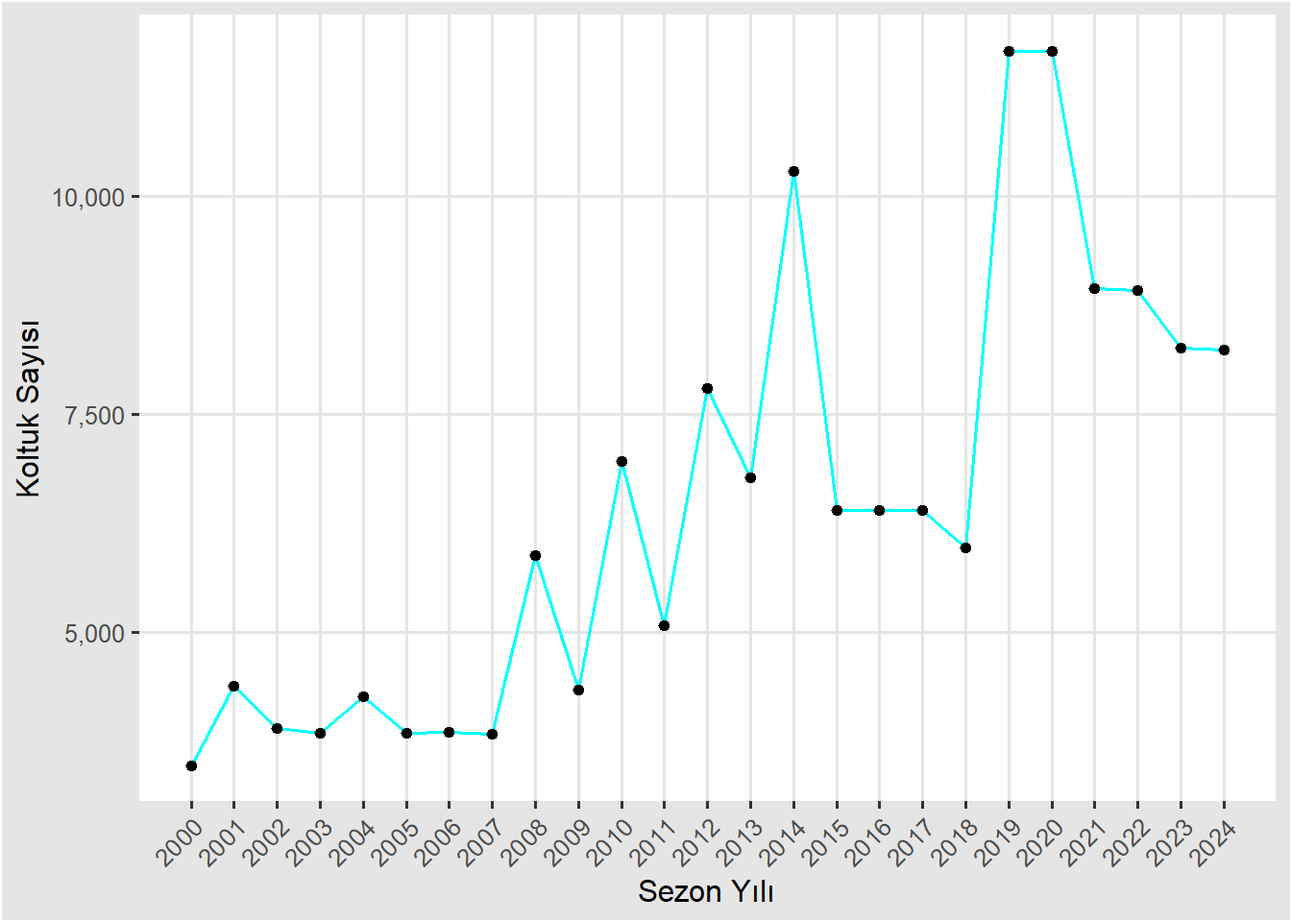
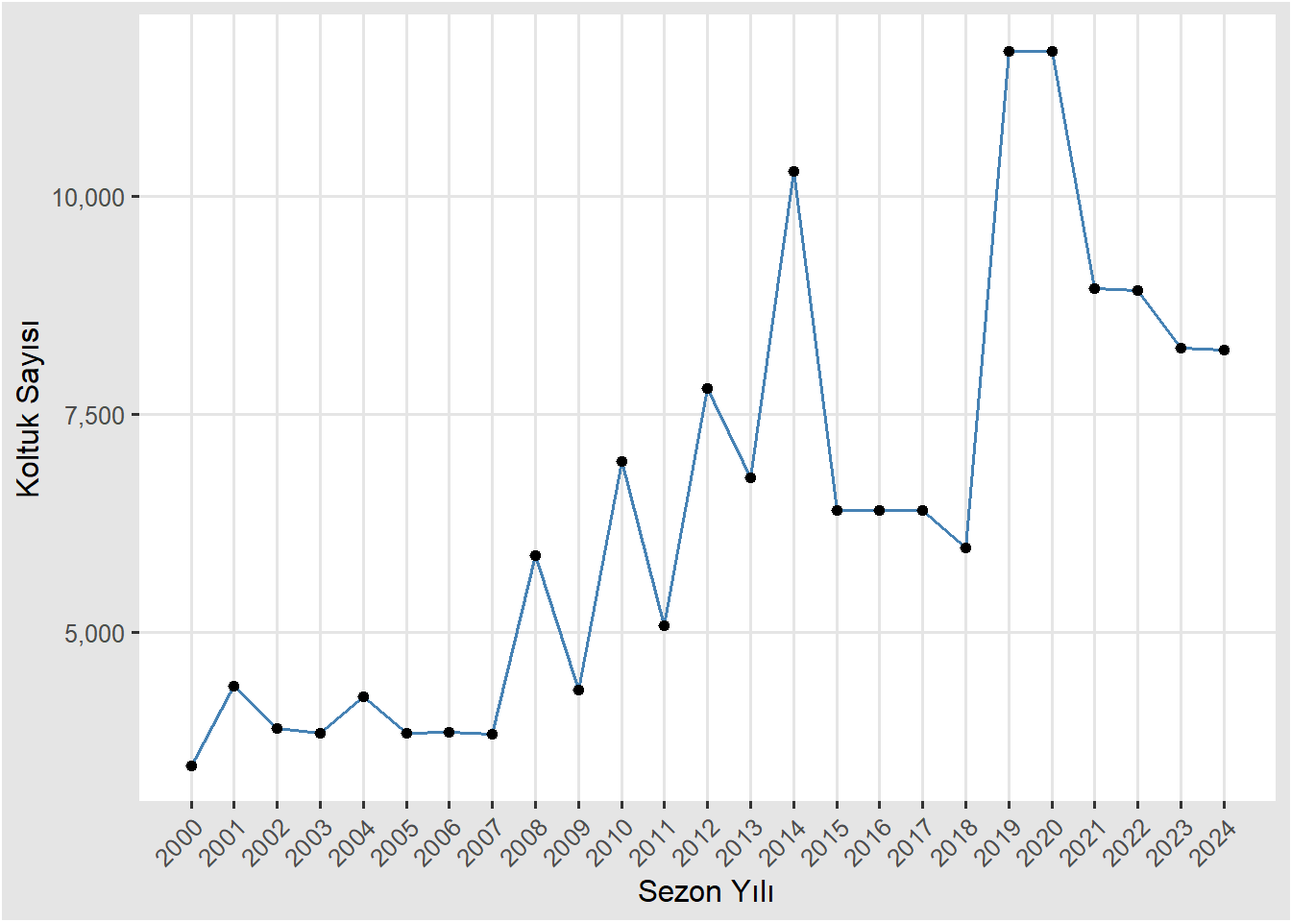
aaa

diff --git a/docs/proje.html b/docs/proje.html
@@ -338,22 +338,22 @@ pre > code.sourceCode > span > a:first-child::before { text-decoration: underlin
     <h2 id="toc-title">On this page</h2>
    
   <ul>
-  <li><a href="#proje-genel-bakış-ve-kapsamı" id="toc-proje-genel-bakış-ve-kapsamı" class="nav-link active" data-scroll-target="#proje-genel-bakış-ve-kapsamı">Proje Genel Bakış ve Kapsamı</a></li>
-  <li><a href="#veri" id="toc-veri" class="nav-link" data-scroll-target="#veri">Veri</a>
+  <li><a href="#proje-genel-bakış-ve-kapsamı" id="toc-proje-genel-bakış-ve-kapsamı" class="nav-link active" data-scroll-target="#proje-genel-bakış-ve-kapsamı"><span class="header-section-number">1</span> Proje Genel Bakış ve Kapsamı</a></li>
+  <li><a href="#veri" id="toc-veri" class="nav-link" data-scroll-target="#veri"><span class="header-section-number">2</span> Veri</a>
   <ul class="collapse">
-  <li><a href="#veri-kaynağı" id="toc-veri-kaynağı" class="nav-link" data-scroll-target="#veri-kaynağı">Veri Kaynağı</a></li>
-  <li><a href="#veri-hakkında-genel-bilgiler" id="toc-veri-hakkında-genel-bilgiler" class="nav-link" data-scroll-target="#veri-hakkında-genel-bilgiler">Veri Hakkında Genel Bilgiler</a></li>
-  <li><a href="#tercih-sebebi" id="toc-tercih-sebebi" class="nav-link" data-scroll-target="#tercih-sebebi">Tercih Sebebi</a></li>
-  <li><a href="#ön-işleme" id="toc-ön-işleme" class="nav-link" data-scroll-target="#ön-işleme">Ön İşleme</a></li>
+  <li><a href="#veri-kaynağı" id="toc-veri-kaynağı" class="nav-link" data-scroll-target="#veri-kaynağı"><span class="header-section-number">2.1</span> Veri Kaynağı</a></li>
+  <li><a href="#veri-hakkında-genel-bilgiler" id="toc-veri-hakkında-genel-bilgiler" class="nav-link" data-scroll-target="#veri-hakkında-genel-bilgiler"><span class="header-section-number">2.2</span> Veri Hakkında Genel Bilgiler</a></li>
+  <li><a href="#tercih-sebebi" id="toc-tercih-sebebi" class="nav-link" data-scroll-target="#tercih-sebebi"><span class="header-section-number">2.3</span> Tercih Sebebi</a></li>
+  <li><a href="#ön-işleme" id="toc-ön-işleme" class="nav-link" data-scroll-target="#ön-işleme"><span class="header-section-number">2.4</span> Ön İşleme</a></li>
   </ul></li>
-  <li><a href="#analiz" id="toc-analiz" class="nav-link" data-scroll-target="#analiz">Analiz</a>
+  <li><a href="#analiz" id="toc-analiz" class="nav-link" data-scroll-target="#analiz"><span class="header-section-number">3</span> Analiz</a>
   <ul class="collapse">
-  <li><a href="#keşifsel-veri-analizi" id="toc-keşifsel-veri-analizi" class="nav-link" data-scroll-target="#keşifsel-veri-analizi">Keşifsel Veri Analizi</a></li>
-  <li><a href="#trend-analizi" id="toc-trend-analizi" class="nav-link" data-scroll-target="#trend-analizi">Trend Analizi</a></li>
-  <li><a href="#model-uydurma" id="toc-model-uydurma" class="nav-link" data-scroll-target="#model-uydurma">Model Uydurma</a></li>
-  <li><a href="#sonuçlar" id="toc-sonuçlar" class="nav-link" data-scroll-target="#sonuçlar">Sonuçlar</a></li>
+  <li><a href="#keşifsel-veri-analizi" id="toc-keşifsel-veri-analizi" class="nav-link" data-scroll-target="#keşifsel-veri-analizi"><span class="header-section-number">3.1</span> Keşifsel Veri Analizi</a></li>
+  <li><a href="#trend-analizi" id="toc-trend-analizi" class="nav-link" data-scroll-target="#trend-analizi"><span class="header-section-number">3.2</span> Trend Analizi</a></li>
+  <li><a href="#model-uydurma" id="toc-model-uydurma" class="nav-link" data-scroll-target="#model-uydurma"><span class="header-section-number">3.3</span> Model Uydurma</a></li>
+  <li><a href="#sonuçlar" id="toc-sonuçlar" class="nav-link" data-scroll-target="#sonuçlar"><span class="header-section-number">3.4</span> Sonuçlar</a></li>
   </ul></li>
-  <li><a href="#sonuçlar-ve-ana-çıkarımlar" id="toc-sonuçlar-ve-ana-çıkarımlar" class="nav-link" data-scroll-target="#sonuçlar-ve-ana-çıkarımlar">Sonuçlar ve Ana Çıkarımlar</a></li>
+  <li><a href="#sonuçlar-ve-ana-çıkarımlar" id="toc-sonuçlar-ve-ana-çıkarımlar" class="nav-link" data-scroll-target="#sonuçlar-ve-ana-çıkarımlar"><span class="header-section-number">4</span> Sonuçlar ve Ana Çıkarımlar</a></li>
   </ul>
 </nav>
 </nav>
@@ -386,19 +386,19 @@ pre > code.sourceCode > span > a:first-child::before { text-decoration: underlin
 
 <p><strong>Projemizle ilgili güncellemelerden haberdar olmak için bu xxxxx bağlantısındaki proje sayfamızı takip edin.</strong></p>
 <p>(Aşağıdaki başlıklar örnek olarak verilmiştir; lütfen gerektiği şekilde düzenlemekten çekinmeyin.)</p>
-<section id="proje-genel-bakış-ve-kapsamı" class="level1">
-<h1>Proje Genel Bakış ve Kapsamı</h1>
+<section id="proje-genel-bakış-ve-kapsamı" class="level1" data-number="1">
+<h1 data-number="1"><span class="header-section-number">1</span> Proje Genel Bakış ve Kapsamı</h1>
 <p>xxxxxx</p>
 </section>
-<section id="veri" class="level1">
-<h1>Veri</h1>
+<section id="veri" class="level1" data-number="2">
+<h1 data-number="2"><span class="header-section-number">2</span> Veri</h1>
 <p>xxxxxx</p>
-<section id="veri-kaynağı" class="level2">
-<h2 class="anchored" data-anchor-id="veri-kaynağı">Veri Kaynağı</h2>
+<section id="veri-kaynağı" class="level2" data-number="2.1">
+<h2 data-number="2.1" class="anchored" data-anchor-id="veri-kaynağı"><span class="header-section-number">2.1</span> Veri Kaynağı</h2>
 <p>xxxxxx</p>
 </section>
-<section id="veri-hakkında-genel-bilgiler" class="level2">
-<h2 class="anchored" data-anchor-id="veri-hakkında-genel-bilgiler">Veri Hakkında Genel Bilgiler</h2>
+<section id="veri-hakkında-genel-bilgiler" class="level2" data-number="2.2">
+<h2 data-number="2.2" class="anchored" data-anchor-id="veri-hakkında-genel-bilgiler"><span class="header-section-number">2.2</span> Veri Hakkında Genel Bilgiler</h2>
 <p>xxxxxx</p>
 <div class="cell">
 <div class="code-copy-outer-scaffold"><div class="sourceCode cell-code" id="cb1"><pre class="sourceCode r code-with-copy"><code class="sourceCode r"><span id="cb1-1"><a href="#cb1-1" aria-hidden="true" tabindex="-1"></a><span class="co">#install.packages("tidyverse", repos = "https://cran.rstudio.com/")</span></span>
@@ -510,10 +510,9 @@ The following object is masked from 'package:readr':
 <span id="cb26-5"><a href="#cb26-5" aria-hidden="true" tabindex="-1"></a>     <span class="fu">geom_point</span>(<span class="at">color =</span> <span class="st">"black"</span>) <span class="sc">+</span></span>
 <span id="cb26-6"><a href="#cb26-6" aria-hidden="true" tabindex="-1"></a>     <span class="fu">xlab</span>(<span class="st">"Sezon Yılı"</span>) <span class="sc">+</span> </span>
 <span id="cb26-7"><a href="#cb26-7" aria-hidden="true" tabindex="-1"></a>     <span class="fu">ylab</span>(<span class="st">"Seyirci Sayısı (Bin)"</span>) <span class="sc">+</span> </span>
-<span id="cb26-8"><a href="#cb26-8" aria-hidden="true" tabindex="-1"></a>     <span class="fu">scale_x_continuous</span>(<span class="at">breaks =</span> <span class="fu">seq</span>(<span class="fu">min</span>(operabale<span class="sc">$</span>sezon_yili),</span>
-<span id="cb26-9"><a href="#cb26-9" aria-hidden="true" tabindex="-1"></a>                                 <span class="fu">max</span>(operabale<span class="sc">$</span>sezon_yili), <span class="at">by =</span> <span class="dv">1</span>)) <span class="sc">+</span></span>
-<span id="cb26-10"><a href="#cb26-10" aria-hidden="true" tabindex="-1"></a>     <span class="fu">theme_igray</span>() <span class="sc">+</span></span>
-<span id="cb26-11"><a href="#cb26-11" aria-hidden="true" tabindex="-1"></a>     <span class="fu">theme</span>(<span class="at">axis.text.x =</span> <span class="fu">element_text</span>(<span class="at">angle =</span> <span class="dv">45</span>, <span class="at">hjust =</span> <span class="dv">1</span>))</span></code></pre></div><button title="Copy to Clipboard" class="code-copy-button"><i class="bi"></i></button></div>
+<span id="cb26-8"><a href="#cb26-8" aria-hidden="true" tabindex="-1"></a>     <span class="fu">scale_x_continuous</span>(<span class="at">breaks =</span> <span class="fu">seq</span>(<span class="dv">2000</span>, <span class="dv">2024</span>, <span class="at">by =</span> <span class="dv">1</span>)) <span class="sc">+</span></span>
+<span id="cb26-9"><a href="#cb26-9" aria-hidden="true" tabindex="-1"></a>     <span class="fu">theme_igray</span>() <span class="sc">+</span></span>
+<span id="cb26-10"><a href="#cb26-10" aria-hidden="true" tabindex="-1"></a>     <span class="fu">theme</span>(<span class="at">axis.text.x =</span> <span class="fu">element_text</span>(<span class="at">angle =</span> <span class="dv">45</span>, <span class="at">hjust =</span> <span class="dv">1</span>))</span></code></pre></div><button title="Copy to Clipboard" class="code-copy-button"><i class="bi"></i></button></div>
 <div class="cell-output-display">
 <div>
 <figure class="figure">
@@ -528,10 +527,9 @@ The following object is masked from 'package:readr':
 <span id="cb27-5"><a href="#cb27-5" aria-hidden="true" tabindex="-1"></a>     <span class="fu">geom_point</span>(<span class="at">color =</span> <span class="st">"black"</span>) <span class="sc">+</span></span>
 <span id="cb27-6"><a href="#cb27-6" aria-hidden="true" tabindex="-1"></a>     <span class="fu">xlab</span>(<span class="st">"Sezon Yılı"</span>) <span class="sc">+</span> </span>
 <span id="cb27-7"><a href="#cb27-7" aria-hidden="true" tabindex="-1"></a>     <span class="fu">ylab</span>(<span class="st">"Oynanan Eser Sayısı"</span>) <span class="sc">+</span> </span>
-<span id="cb27-8"><a href="#cb27-8" aria-hidden="true" tabindex="-1"></a>     <span class="fu">scale_x_continuous</span>(<span class="at">breaks =</span> <span class="fu">seq</span>(<span class="fu">min</span>(operabale<span class="sc">$</span>sezon_yili),</span>
-<span id="cb27-9"><a href="#cb27-9" aria-hidden="true" tabindex="-1"></a>                                 <span class="fu">max</span>(operabale<span class="sc">$</span>sezon_yili), <span class="at">by =</span> <span class="dv">1</span>)) <span class="sc">+</span></span>
-<span id="cb27-10"><a href="#cb27-10" aria-hidden="true" tabindex="-1"></a>     <span class="fu">theme_igray</span>() <span class="sc">+</span></span>
-<span id="cb27-11"><a href="#cb27-11" aria-hidden="true" tabindex="-1"></a>     <span class="fu">theme</span>(<span class="at">axis.text.x =</span> <span class="fu">element_text</span>(<span class="at">angle =</span> <span class="dv">45</span>, <span class="at">hjust =</span> <span class="dv">1</span>))</span></code></pre></div><button title="Copy to Clipboard" class="code-copy-button"><i class="bi"></i></button></div>
+<span id="cb27-8"><a href="#cb27-8" aria-hidden="true" tabindex="-1"></a>     <span class="fu">scale_x_continuous</span>(<span class="at">breaks =</span> <span class="fu">seq</span>(<span class="dv">2000</span>, <span class="dv">2024</span>, <span class="at">by =</span> <span class="dv">1</span>)) <span class="sc">+</span></span>
+<span id="cb27-9"><a href="#cb27-9" aria-hidden="true" tabindex="-1"></a>     <span class="fu">theme_igray</span>() <span class="sc">+</span></span>
+<span id="cb27-10"><a href="#cb27-10" aria-hidden="true" tabindex="-1"></a>     <span class="fu">theme</span>(<span class="at">axis.text.x =</span> <span class="fu">element_text</span>(<span class="at">angle =</span> <span class="dv">45</span>, <span class="at">hjust =</span> <span class="dv">1</span>))</span></code></pre></div><button title="Copy to Clipboard" class="code-copy-button"><i class="bi"></i></button></div>
 <div class="cell-output-display">
 <div>
 <figure class="figure">
@@ -542,15 +540,14 @@ The following object is masked from 'package:readr':
 <div class="code-copy-outer-scaffold"><div class="sourceCode cell-code" id="cb28"><pre class="sourceCode r code-with-copy"><code class="sourceCode r"><span id="cb28-1"><a href="#cb28-1" aria-hidden="true" tabindex="-1"></a><span class="co">#yıllara göre koltuk sayısı değişimi</span></span>
 <span id="cb28-2"><a href="#cb28-2" aria-hidden="true" tabindex="-1"></a>ob3 <span class="ot">&lt;-</span> operabale <span class="sc">|&gt;</span> <span class="fu">ggplot</span>(<span class="fu">aes</span>(<span class="at">x =</span> sezon_yili, <span class="at">y =</span> koltuk_sayisi))</span>
 <span id="cb28-3"><a href="#cb28-3" aria-hidden="true" tabindex="-1"></a></span>
-<span id="cb28-4"><a href="#cb28-4" aria-hidden="true" tabindex="-1"></a>ob3 <span class="sc">+</span> <span class="fu">geom_line</span>(<span class="at">color =</span> <span class="st">"cyan"</span>) <span class="sc">+</span> </span>
+<span id="cb28-4"><a href="#cb28-4" aria-hidden="true" tabindex="-1"></a>ob3 <span class="sc">+</span> <span class="fu">geom_line</span>(<span class="at">color =</span> <span class="st">"steelblue"</span>) <span class="sc">+</span> </span>
 <span id="cb28-5"><a href="#cb28-5" aria-hidden="true" tabindex="-1"></a>     <span class="fu">geom_point</span>(<span class="at">color =</span> <span class="st">"black"</span>) <span class="sc">+</span></span>
 <span id="cb28-6"><a href="#cb28-6" aria-hidden="true" tabindex="-1"></a>     <span class="fu">xlab</span>(<span class="st">"Sezon Yılı"</span>) <span class="sc">+</span> </span>
 <span id="cb28-7"><a href="#cb28-7" aria-hidden="true" tabindex="-1"></a>     <span class="fu">ylab</span>(<span class="st">"Koltuk Sayısı"</span>) <span class="sc">+</span> </span>
 <span id="cb28-8"><a href="#cb28-8" aria-hidden="true" tabindex="-1"></a>     <span class="fu">scale_y_continuous</span>(<span class="at">labels =</span> comma) <span class="sc">+</span> </span>
-<span id="cb28-9"><a href="#cb28-9" aria-hidden="true" tabindex="-1"></a>     <span class="fu">scale_x_continuous</span>(<span class="at">breaks =</span> <span class="fu">seq</span>(<span class="fu">min</span>(operabale<span class="sc">$</span>sezon_yili),</span>
-<span id="cb28-10"><a href="#cb28-10" aria-hidden="true" tabindex="-1"></a>                                 <span class="fu">max</span>(operabale<span class="sc">$</span>sezon_yili), <span class="at">by =</span> <span class="dv">1</span>)) <span class="sc">+</span></span>
-<span id="cb28-11"><a href="#cb28-11" aria-hidden="true" tabindex="-1"></a>     <span class="fu">theme_igray</span>() <span class="sc">+</span></span>
-<span id="cb28-12"><a href="#cb28-12" aria-hidden="true" tabindex="-1"></a>     <span class="fu">theme</span>(<span class="at">axis.text.x =</span> <span class="fu">element_text</span>(<span class="at">angle =</span> <span class="dv">45</span>, <span class="at">hjust =</span> <span class="dv">1</span>))</span></code></pre></div><button title="Copy to Clipboard" class="code-copy-button"><i class="bi"></i></button></div>
+<span id="cb28-9"><a href="#cb28-9" aria-hidden="true" tabindex="-1"></a>     <span class="fu">scale_x_continuous</span>(<span class="at">breaks =</span> <span class="fu">seq</span>(<span class="dv">2000</span>, <span class="dv">2024</span>, <span class="at">by =</span> <span class="dv">1</span>)) <span class="sc">+</span></span>
+<span id="cb28-10"><a href="#cb28-10" aria-hidden="true" tabindex="-1"></a>     <span class="fu">theme_igray</span>() <span class="sc">+</span></span>
+<span id="cb28-11"><a href="#cb28-11" aria-hidden="true" tabindex="-1"></a>     <span class="fu">theme</span>(<span class="at">axis.text.x =</span> <span class="fu">element_text</span>(<span class="at">angle =</span> <span class="dv">45</span>, <span class="at">hjust =</span> <span class="dv">1</span>))</span></code></pre></div><button title="Copy to Clipboard" class="code-copy-button"><i class="bi"></i></button></div>
 <div class="cell-output-display">
 <div>
 <figure class="figure">
@@ -576,21 +573,18 @@ The following object is masked from 'package:readr':
 <span id="cb29-16"><a href="#cb29-16" aria-hidden="true" tabindex="-1"></a>  </span>
 <span id="cb29-17"><a href="#cb29-17" aria-hidden="true" tabindex="-1"></a>)</span>
 <span id="cb29-18"><a href="#cb29-18" aria-hidden="true" tabindex="-1"></a></span>
-<span id="cb29-19"><a href="#cb29-19" aria-hidden="true" tabindex="-1"></a><span class="fu">ggplot</span>(uzun, <span class="fu">aes</span>(<span class="at">x =</span> sezon_yili, <span class="at">y =</span> deger)) <span class="sc">+</span></span>
-<span id="cb29-20"><a href="#cb29-20" aria-hidden="true" tabindex="-1"></a>  <span class="fu">geom_line</span>(<span class="at">color =</span> <span class="st">"maroon"</span>) <span class="sc">+</span></span>
-<span id="cb29-21"><a href="#cb29-21" aria-hidden="true" tabindex="-1"></a>  <span class="fu">geom_point</span>(<span class="at">size =</span> <span class="dv">1</span>) <span class="sc">+</span></span>
-<span id="cb29-22"><a href="#cb29-22" aria-hidden="true" tabindex="-1"></a>  <span class="fu">facet_grid</span>(</span>
-<span id="cb29-23"><a href="#cb29-23" aria-hidden="true" tabindex="-1"></a>    degisken <span class="sc">~</span> .,</span>
-<span id="cb29-24"><a href="#cb29-24" aria-hidden="true" tabindex="-1"></a>    <span class="at">scales =</span> <span class="st">"free_y"</span></span>
-<span id="cb29-25"><a href="#cb29-25" aria-hidden="true" tabindex="-1"></a>  ) <span class="sc">+</span></span>
-<span id="cb29-26"><a href="#cb29-26" aria-hidden="true" tabindex="-1"></a>  <span class="fu">scale_x_continuous</span>(<span class="at">breaks =</span> <span class="fu">seq</span>(<span class="fu">min</span>(operabale<span class="sc">$</span>sezon_yili),</span>
-<span id="cb29-27"><a href="#cb29-27" aria-hidden="true" tabindex="-1"></a>                                 <span class="fu">max</span>(operabale<span class="sc">$</span>sezon_yili), <span class="at">by =</span> <span class="dv">1</span>))<span class="sc">+</span></span>
-<span id="cb29-28"><a href="#cb29-28" aria-hidden="true" tabindex="-1"></a>  <span class="fu">scale_y_continuous</span>(<span class="at">labels =</span> comma) <span class="sc">+</span></span>
-<span id="cb29-29"><a href="#cb29-29" aria-hidden="true" tabindex="-1"></a>  <span class="fu">theme_igray</span>() <span class="sc">+</span></span>
-<span id="cb29-30"><a href="#cb29-30" aria-hidden="true" tabindex="-1"></a>  <span class="fu">theme</span>(</span>
-<span id="cb29-31"><a href="#cb29-31" aria-hidden="true" tabindex="-1"></a>    <span class="at">strip.text.y =</span> <span class="fu">element_text</span>(<span class="at">size =</span> <span class="dv">11</span>, <span class="at">face =</span> <span class="st">"bold"</span>),</span>
-<span id="cb29-32"><a href="#cb29-32" aria-hidden="true" tabindex="-1"></a>    <span class="at">axis.text.x =</span> <span class="fu">element_text</span>(<span class="at">angle =</span> <span class="dv">45</span>, <span class="at">hjust =</span> <span class="dv">1</span>)) <span class="sc">+</span></span>
-<span id="cb29-33"><a href="#cb29-33" aria-hidden="true" tabindex="-1"></a>  <span class="fu">labs</span>(<span class="at">x =</span> <span class="st">"Sezon Yılı"</span>, <span class="at">y =</span> <span class="cn">NULL</span>)</span></code></pre></div><button title="Copy to Clipboard" class="code-copy-button"><i class="bi"></i></button></div>
+<span id="cb29-19"><a href="#cb29-19" aria-hidden="true" tabindex="-1"></a>ob4 <span class="ot">&lt;-</span> uzun <span class="sc">|&gt;</span> <span class="fu">ggplot</span>(<span class="fu">aes</span>(<span class="at">x =</span> sezon_yili, <span class="at">y =</span> deger)) </span>
+<span id="cb29-20"><a href="#cb29-20" aria-hidden="true" tabindex="-1"></a></span>
+<span id="cb29-21"><a href="#cb29-21" aria-hidden="true" tabindex="-1"></a>ob4 <span class="sc">+</span> <span class="fu">geom_line</span>(<span class="at">color =</span> <span class="st">"maroon"</span>) <span class="sc">+</span></span>
+<span id="cb29-22"><a href="#cb29-22" aria-hidden="true" tabindex="-1"></a>     <span class="fu">geom_point</span>(<span class="at">size =</span> <span class="dv">1</span>) <span class="sc">+</span></span>
+<span id="cb29-23"><a href="#cb29-23" aria-hidden="true" tabindex="-1"></a>     <span class="fu">facet_grid</span>(degisken <span class="sc">~</span> ., <span class="at">scales =</span> <span class="st">"free_y"</span>) <span class="sc">+</span></span>
+<span id="cb29-24"><a href="#cb29-24" aria-hidden="true" tabindex="-1"></a>     <span class="fu">scale_x_continuous</span>(<span class="at">breaks =</span> <span class="fu">seq</span>(<span class="dv">2000</span>, <span class="dv">2024</span>, <span class="at">by =</span> <span class="dv">1</span>))<span class="sc">+</span></span>
+<span id="cb29-25"><a href="#cb29-25" aria-hidden="true" tabindex="-1"></a>     <span class="fu">scale_y_continuous</span>(<span class="at">labels =</span> comma) <span class="sc">+</span></span>
+<span id="cb29-26"><a href="#cb29-26" aria-hidden="true" tabindex="-1"></a>     <span class="fu">theme_igray</span>() <span class="sc">+</span></span>
+<span id="cb29-27"><a href="#cb29-27" aria-hidden="true" tabindex="-1"></a>     <span class="fu">theme</span>(</span>
+<span id="cb29-28"><a href="#cb29-28" aria-hidden="true" tabindex="-1"></a>     <span class="at">strip.text.y =</span> <span class="fu">element_text</span>(<span class="at">size =</span> <span class="dv">11</span>, <span class="at">face =</span> <span class="st">"bold"</span>),</span>
+<span id="cb29-29"><a href="#cb29-29" aria-hidden="true" tabindex="-1"></a>     <span class="at">axis.text.x =</span> <span class="fu">element_text</span>(<span class="at">angle =</span> <span class="dv">45</span>, <span class="at">hjust =</span> <span class="dv">1</span>)) <span class="sc">+</span></span>
+<span id="cb29-30"><a href="#cb29-30" aria-hidden="true" tabindex="-1"></a>     <span class="fu">labs</span>(<span class="at">x =</span> <span class="st">"Sezon Yılı"</span>, <span class="at">y =</span> <span class="cn">NULL</span>)</span></code></pre></div><button title="Copy to Clipboard" class="code-copy-button"><i class="bi"></i></button></div>
 <div class="cell-output-display">
 <div>
 <figure class="figure">
@@ -609,16 +603,15 @@ The following object is masked from 'package:readr':
 [19]  49.079062  27.603581  21.938228   1.567996  23.667563  33.303390
 [25]  53.264167</code></pre>
 </div>
-<div class="code-copy-outer-scaffold"><div class="sourceCode cell-code" id="cb32"><pre class="sourceCode r code-with-copy"><code class="sourceCode r"><span id="cb32-1"><a href="#cb32-1" aria-hidden="true" tabindex="-1"></a>ob4 <span class="ot">&lt;-</span> operabale <span class="sc">|&gt;</span> <span class="fu">ggplot</span>(<span class="fu">aes</span>(<span class="at">x =</span> sezon_yili, <span class="at">y =</span> dolulukorani))</span>
+<div class="code-copy-outer-scaffold"><div class="sourceCode cell-code" id="cb32"><pre class="sourceCode r code-with-copy"><code class="sourceCode r"><span id="cb32-1"><a href="#cb32-1" aria-hidden="true" tabindex="-1"></a>ob5 <span class="ot">&lt;-</span> operabale <span class="sc">|&gt;</span> <span class="fu">ggplot</span>(<span class="fu">aes</span>(<span class="at">x =</span> sezon_yili, <span class="at">y =</span> dolulukorani))</span>
 <span id="cb32-2"><a href="#cb32-2" aria-hidden="true" tabindex="-1"></a></span>
-<span id="cb32-3"><a href="#cb32-3" aria-hidden="true" tabindex="-1"></a>ob4 <span class="sc">+</span> <span class="fu">geom_line</span>(<span class="at">color =</span> <span class="st">"maroon"</span>) <span class="sc">+</span> </span>
+<span id="cb32-3"><a href="#cb32-3" aria-hidden="true" tabindex="-1"></a>ob5 <span class="sc">+</span> <span class="fu">geom_line</span>(<span class="at">color =</span> <span class="st">"maroon"</span>) <span class="sc">+</span> </span>
 <span id="cb32-4"><a href="#cb32-4" aria-hidden="true" tabindex="-1"></a>     <span class="fu">geom_point</span>(<span class="at">color =</span> <span class="st">"black"</span>) <span class="sc">+</span></span>
 <span id="cb32-5"><a href="#cb32-5" aria-hidden="true" tabindex="-1"></a>     <span class="fu">xlab</span>(<span class="st">"Sezon Yılı"</span>) <span class="sc">+</span> </span>
 <span id="cb32-6"><a href="#cb32-6" aria-hidden="true" tabindex="-1"></a>     <span class="fu">ylab</span>(<span class="st">"Doluluk Oranı"</span>) <span class="sc">+</span> </span>
-<span id="cb32-7"><a href="#cb32-7" aria-hidden="true" tabindex="-1"></a>     <span class="fu">scale_x_continuous</span>(<span class="at">breaks =</span> <span class="fu">seq</span>(<span class="fu">min</span>(operabale<span class="sc">$</span>sezon_yili),</span>
-<span id="cb32-8"><a href="#cb32-8" aria-hidden="true" tabindex="-1"></a>                                 <span class="fu">max</span>(operabale<span class="sc">$</span>sezon_yili), <span class="at">by =</span> <span class="dv">1</span>)) <span class="sc">+</span></span>
-<span id="cb32-9"><a href="#cb32-9" aria-hidden="true" tabindex="-1"></a>     <span class="fu">theme_igray</span>() <span class="sc">+</span></span>
-<span id="cb32-10"><a href="#cb32-10" aria-hidden="true" tabindex="-1"></a>     <span class="fu">theme</span>(<span class="at">axis.text.x =</span> <span class="fu">element_text</span>(<span class="at">angle =</span> <span class="dv">45</span>, <span class="at">hjust =</span> <span class="dv">1</span>))</span></code></pre></div><button title="Copy to Clipboard" class="code-copy-button"><i class="bi"></i></button></div>
+<span id="cb32-7"><a href="#cb32-7" aria-hidden="true" tabindex="-1"></a>     <span class="fu">scale_x_continuous</span>(<span class="at">breaks =</span> <span class="fu">seq</span>(<span class="dv">2000</span>, <span class="dv">2024</span>, <span class="at">by =</span> <span class="dv">1</span>)) <span class="sc">+</span></span>
+<span id="cb32-8"><a href="#cb32-8" aria-hidden="true" tabindex="-1"></a>     <span class="fu">theme_igray</span>() <span class="sc">+</span></span>
+<span id="cb32-9"><a href="#cb32-9" aria-hidden="true" tabindex="-1"></a>     <span class="fu">theme</span>(<span class="at">axis.text.x =</span> <span class="fu">element_text</span>(<span class="at">angle =</span> <span class="dv">45</span>, <span class="at">hjust =</span> <span class="dv">1</span>))</span></code></pre></div><button title="Copy to Clipboard" class="code-copy-button"><i class="bi"></i></button></div>
 <div class="cell-output-display">
 <div>
 <figure class="figure">
@@ -648,24 +641,22 @@ The following object is masked from 'package:readr':
 <span id="cb33-20"><a href="#cb33-20" aria-hidden="true" tabindex="-1"></a>                         <span class="st">"seyirci_norm"</span> <span class="ot">=</span> <span class="st">"Seyirci Sayısı (Normalize)"</span>))</span>
 <span id="cb33-21"><a href="#cb33-21" aria-hidden="true" tabindex="-1"></a></span>
 <span id="cb33-22"><a href="#cb33-22" aria-hidden="true" tabindex="-1"></a></span>
-<span id="cb33-23"><a href="#cb33-23" aria-hidden="true" tabindex="-1"></a><span class="fu">ggplot</span>(normalize_operabale, <span class="fu">aes</span>(<span class="at">x =</span> sezon_yili, <span class="at">y =</span> Deger, <span class="at">color =</span> Metrik, <span class="at">group =</span> Metrik)) <span class="sc">+</span></span>
-<span id="cb33-24"><a href="#cb33-24" aria-hidden="true" tabindex="-1"></a>  <span class="fu">geom_line</span>() <span class="sc">+</span></span>
-<span id="cb33-25"><a href="#cb33-25" aria-hidden="true" tabindex="-1"></a>  <span class="fu">geom_point</span>(<span class="at">size =</span> <span class="dv">1</span>) <span class="sc">+</span></span>
-<span id="cb33-26"><a href="#cb33-26" aria-hidden="true" tabindex="-1"></a>  <span class="fu">scale_y_continuous</span>(<span class="at">labels =</span> scales<span class="sc">::</span>percent, <span class="at">limits =</span> <span class="fu">c</span>(<span class="dv">0</span>, <span class="dv">1</span>)) <span class="sc">+</span></span>
-<span id="cb33-27"><a href="#cb33-27" aria-hidden="true" tabindex="-1"></a>  <span class="fu">scale_x_continuous</span>(<span class="at">breaks =</span> <span class="fu">seq</span>(<span class="dv">2000</span>, <span class="dv">2024</span>, <span class="at">by =</span> <span class="dv">1</span>)) <span class="sc">+</span></span>
-<span id="cb33-28"><a href="#cb33-28" aria-hidden="true" tabindex="-1"></a>  <span class="fu">labs</span>(</span>
-<span id="cb33-29"><a href="#cb33-29" aria-hidden="true" tabindex="-1"></a>    <span class="at">title =</span> <span class="st">"Eser ve Seyirci Sayısı Trend Karşılaştırması (2000 - 2024)"</span>,</span>
-<span id="cb33-30"><a href="#cb33-30" aria-hidden="true" tabindex="-1"></a>    <span class="at">subtitle =</span> <span class="st">"Veriler kıyaslama yapılabilmesi için Min-Max yöntemi ile %0-%100 arasına normalize edilmiştir."</span>,</span>
-<span id="cb33-31"><a href="#cb33-31" aria-hidden="true" tabindex="-1"></a>    <span class="at">x =</span> <span class="st">"Sezon Yılı"</span>,</span>
-<span id="cb33-32"><a href="#cb33-32" aria-hidden="true" tabindex="-1"></a>    <span class="at">y =</span> <span class="st">"Değişim Oranı"</span>,</span>
-<span id="cb33-33"><a href="#cb33-33" aria-hidden="true" tabindex="-1"></a>  </span>
-<span id="cb33-34"><a href="#cb33-34" aria-hidden="true" tabindex="-1"></a>  ) <span class="sc">+</span></span>
-<span id="cb33-35"><a href="#cb33-35" aria-hidden="true" tabindex="-1"></a>  <span class="fu">theme_igray</span>() <span class="sc">+</span></span>
-<span id="cb33-36"><a href="#cb33-36" aria-hidden="true" tabindex="-1"></a>  <span class="fu">theme</span>(</span>
-<span id="cb33-37"><a href="#cb33-37" aria-hidden="true" tabindex="-1"></a>    <span class="at">legend.position =</span> <span class="st">"bottom"</span>,</span>
-<span id="cb33-38"><a href="#cb33-38" aria-hidden="true" tabindex="-1"></a>    <span class="at">plot.title =</span> <span class="fu">element_text</span>(<span class="at">face =</span> <span class="st">"bold"</span>, <span class="at">size =</span> <span class="dv">14</span>),</span>
-<span id="cb33-39"><a href="#cb33-39" aria-hidden="true" tabindex="-1"></a>    <span class="at">axis.text.x =</span> <span class="fu">element_text</span>(<span class="at">angle =</span> <span class="dv">45</span>, <span class="at">vjust =</span> <span class="fl">0.5</span>)</span>
-<span id="cb33-40"><a href="#cb33-40" aria-hidden="true" tabindex="-1"></a>  )</span></code></pre></div><button title="Copy to Clipboard" class="code-copy-button"><i class="bi"></i></button></div>
+<span id="cb33-23"><a href="#cb33-23" aria-hidden="true" tabindex="-1"></a>ob6 <span class="ot">&lt;-</span> normalize_operabale <span class="sc">|&gt;</span> <span class="fu">ggplot</span>(<span class="fu">aes</span>(<span class="at">x =</span> sezon_yili, <span class="at">y =</span> Deger, <span class="at">color =</span> Metrik, <span class="at">group =</span> Metrik)) </span>
+<span id="cb33-24"><a href="#cb33-24" aria-hidden="true" tabindex="-1"></a>  </span>
+<span id="cb33-25"><a href="#cb33-25" aria-hidden="true" tabindex="-1"></a> ob6 <span class="sc">+</span> <span class="fu">geom_line</span>() <span class="sc">+</span></span>
+<span id="cb33-26"><a href="#cb33-26" aria-hidden="true" tabindex="-1"></a>      <span class="fu">geom_point</span>(<span class="at">color =</span> <span class="st">"black"</span>) <span class="sc">+</span></span>
+<span id="cb33-27"><a href="#cb33-27" aria-hidden="true" tabindex="-1"></a>      <span class="fu">scale_y_continuous</span>(<span class="at">labels =</span> scales<span class="sc">::</span>percent, <span class="at">limits =</span> <span class="fu">c</span>(<span class="dv">0</span>, <span class="dv">1</span>)) <span class="sc">+</span></span>
+<span id="cb33-28"><a href="#cb33-28" aria-hidden="true" tabindex="-1"></a>      <span class="fu">scale_x_continuous</span>(<span class="at">breaks =</span> <span class="fu">seq</span>(<span class="dv">2000</span>, <span class="dv">2024</span>, <span class="at">by =</span> <span class="dv">1</span>)) <span class="sc">+</span></span>
+<span id="cb33-29"><a href="#cb33-29" aria-hidden="true" tabindex="-1"></a>      <span class="fu">labs</span>(</span>
+<span id="cb33-30"><a href="#cb33-30" aria-hidden="true" tabindex="-1"></a>      <span class="at">title =</span> <span class="st">"Eser ve Seyirci Sayısı Trend Karşılaştırması (2000 - 2024)"</span>,</span>
+<span id="cb33-31"><a href="#cb33-31" aria-hidden="true" tabindex="-1"></a>      <span class="at">subtitle =</span> <span class="st">"Veriler kıyaslama yapılabilmesi için Min-Max yöntemi ile %0-%100 arasına normalize edilmiştir."</span>,</span>
+<span id="cb33-32"><a href="#cb33-32" aria-hidden="true" tabindex="-1"></a>      <span class="at">x =</span> <span class="st">"Sezon Yılı"</span>,</span>
+<span id="cb33-33"><a href="#cb33-33" aria-hidden="true" tabindex="-1"></a>      <span class="at">y =</span> <span class="st">"Değişim Oranı"</span>) <span class="sc">+</span></span>
+<span id="cb33-34"><a href="#cb33-34" aria-hidden="true" tabindex="-1"></a>      <span class="fu">theme_igray</span>() <span class="sc">+</span></span>
+<span id="cb33-35"><a href="#cb33-35" aria-hidden="true" tabindex="-1"></a>      <span class="fu">theme</span>(</span>
+<span id="cb33-36"><a href="#cb33-36" aria-hidden="true" tabindex="-1"></a>      <span class="at">legend.position =</span> <span class="st">"bottom"</span>,</span>
+<span id="cb33-37"><a href="#cb33-37" aria-hidden="true" tabindex="-1"></a>      <span class="at">plot.title =</span> <span class="fu">element_text</span>(<span class="at">face =</span> <span class="st">"bold"</span>, <span class="at">size =</span> <span class="dv">14</span>),</span>
+<span id="cb33-38"><a href="#cb33-38" aria-hidden="true" tabindex="-1"></a>      <span class="at">axis.text.x =</span> <span class="fu">element_text</span>(<span class="at">angle =</span> <span class="dv">45</span>, <span class="at">vjust =</span> <span class="fl">0.5</span>))</span></code></pre></div><button title="Copy to Clipboard" class="code-copy-button"><i class="bi"></i></button></div>
 <div class="cell-output-display">
 <div>
 <figure class="figure">
@@ -677,37 +668,37 @@ The following object is masked from 'package:readr':
 <span id="cb34-2"><a href="#cb34-2" aria-hidden="true" tabindex="-1"></a><span class="co">#uzun</span></span></code></pre></div><button title="Copy to Clipboard" class="code-copy-button"><i class="bi"></i></button></div>
 </div>
 </section>
-<section id="tercih-sebebi" class="level2">
-<h2 class="anchored" data-anchor-id="tercih-sebebi">Tercih Sebebi</h2>
+<section id="tercih-sebebi" class="level2" data-number="2.3">
+<h2 data-number="2.3" class="anchored" data-anchor-id="tercih-sebebi"><span class="header-section-number">2.3</span> Tercih Sebebi</h2>
 <p>xxxxxx</p>
 </section>
-<section id="ön-işleme" class="level2">
-<h2 class="anchored" data-anchor-id="ön-işleme">Ön İşleme</h2>
-<p>xxxxxx</p>
-</section>
-</section>
-<section id="analiz" class="level1">
-<h1>Analiz</h1>
-<p>xxxxxx</p>
-<section id="keşifsel-veri-analizi" class="level2">
-<h2 class="anchored" data-anchor-id="keşifsel-veri-analizi">Keşifsel Veri Analizi</h2>
-<p>xxxxxx</p>
-</section>
-<section id="trend-analizi" class="level2">
-<h2 class="anchored" data-anchor-id="trend-analizi">Trend Analizi</h2>
-<p>xxxxxx</p>
-</section>
-<section id="model-uydurma" class="level2">
-<h2 class="anchored" data-anchor-id="model-uydurma">Model Uydurma</h2>
-<p>xxxxxx</p>
-</section>
-<section id="sonuçlar" class="level2">
-<h2 class="anchored" data-anchor-id="sonuçlar">Sonuçlar</h2>
+<section id="ön-işleme" class="level2" data-number="2.4">
+<h2 data-number="2.4" class="anchored" data-anchor-id="ön-işleme"><span class="header-section-number">2.4</span> Ön İşleme</h2>
 <p>xxxxxx</p>
 </section>
 </section>
-<section id="sonuçlar-ve-ana-çıkarımlar" class="level1">
-<h1>Sonuçlar ve Ana Çıkarımlar</h1>
+<section id="analiz" class="level1" data-number="3">
+<h1 data-number="3"><span class="header-section-number">3</span> Analiz</h1>
+<p>xxxxxx</p>
+<section id="keşifsel-veri-analizi" class="level2" data-number="3.1">
+<h2 data-number="3.1" class="anchored" data-anchor-id="keşifsel-veri-analizi"><span class="header-section-number">3.1</span> Keşifsel Veri Analizi</h2>
+<p>xxxxxx</p>
+</section>
+<section id="trend-analizi" class="level2" data-number="3.2">
+<h2 data-number="3.2" class="anchored" data-anchor-id="trend-analizi"><span class="header-section-number">3.2</span> Trend Analizi</h2>
+<p>xxxxxx</p>
+</section>
+<section id="model-uydurma" class="level2" data-number="3.3">
+<h2 data-number="3.3" class="anchored" data-anchor-id="model-uydurma"><span class="header-section-number">3.3</span> Model Uydurma</h2>
+<p>xxxxxx</p>
+</section>
+<section id="sonuçlar" class="level2" data-number="3.4">
+<h2 data-number="3.4" class="anchored" data-anchor-id="sonuçlar"><span class="header-section-number">3.4</span> Sonuçlar</h2>
+<p>xxxxxx</p>
+</section>
+</section>
+<section id="sonuçlar-ve-ana-çıkarımlar" class="level1" data-number="4">
+<h1 data-number="4"><span class="header-section-number">4</span> Sonuçlar ve Ana Çıkarımlar</h1>
 <p>xxxxxx</p>
 
 
